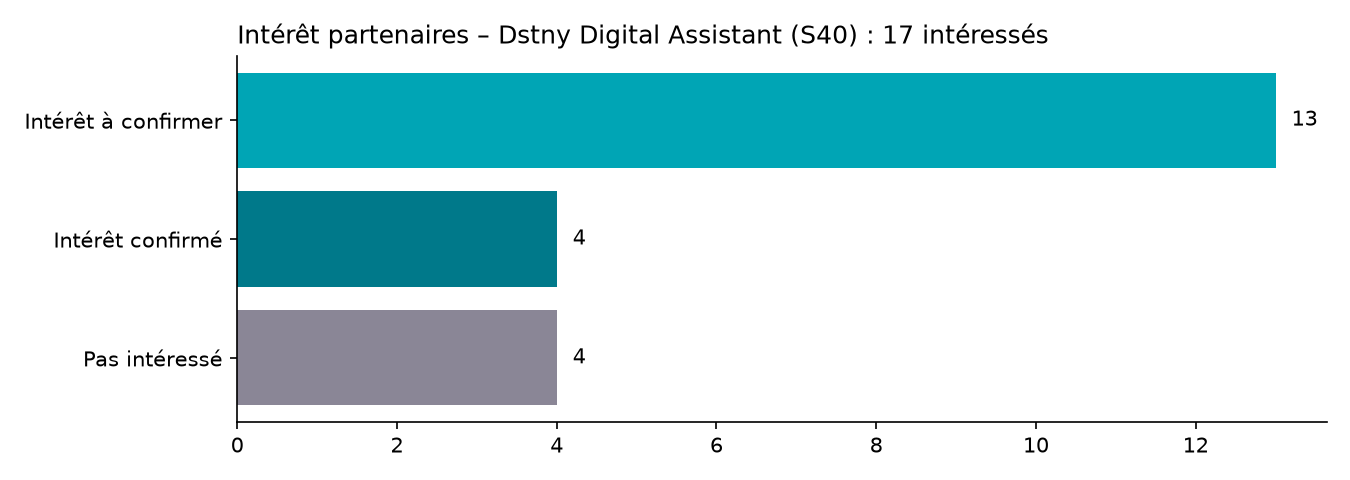
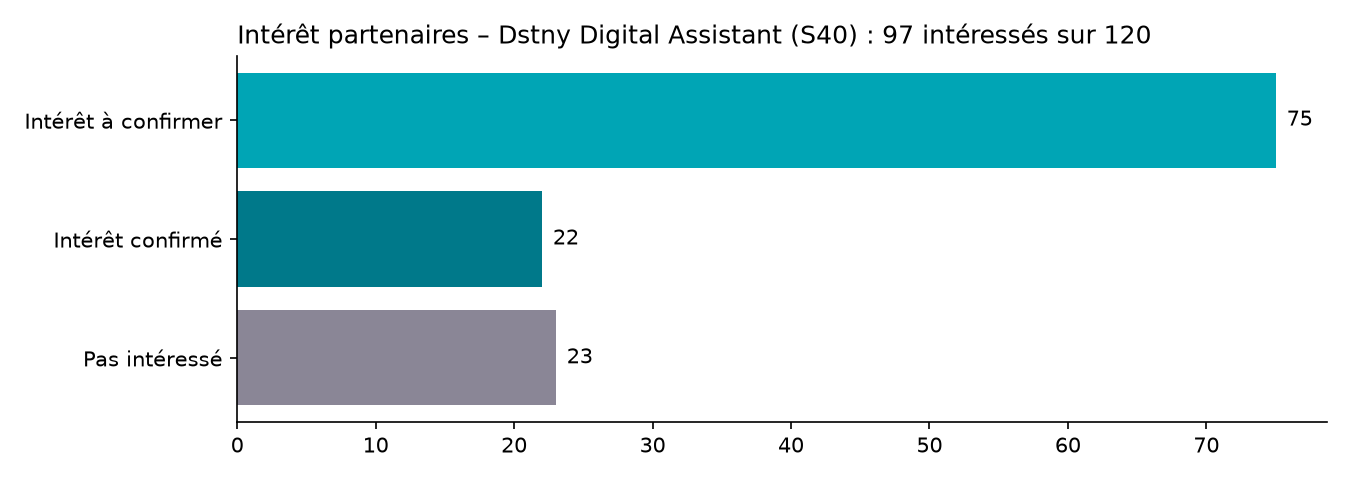
Week 40: replace interest export with corrected HubSpot data (120 partners) and update analysis, charts, slides
Claude-Session: https://claude.ai/code/session_01LkDZ43fAxsiGHwtPuUQvfi

diff --git a/challenge-ia/semaines/2026-S40/slides/slides/interet.html b/challenge-ia/semaines/2026-S40/slides/slides/interet.html
@@ -1,17 +1,17 @@
 <section id="interet" data-section="Intérêt partenaires et classement" style="background:#f4f7f8;color:#2a2536;font-family:Inter, Arial, sans-serif;padding:128px 128px 160px;display:flex;flex-direction:column;gap:48px">
-<div style="display:flex;flex-direction:column;gap:16px;align-items:start"><p style="font-size:24px;font-weight:700;letter-spacing:2px;text-transform:uppercase;background:#d6f1f3;color:#00596a;padding:6px 20px;border-radius:999px">Intérêt partenaires</p><h2 style="font-size:60px;font-weight:800;line-height:1.1;color:#2a2536">17 partenaires intéressés, mais seulement 4 confirmés</h2></div>
+<div style="display:flex;flex-direction:column;gap:16px;align-items:start"><p style="font-size:24px;font-weight:700;letter-spacing:2px;text-transform:uppercase;background:#d6f1f3;color:#00596a;padding:6px 20px;border-radius:999px">Intérêt partenaires</p><h2 style="font-size:60px;font-weight:800;line-height:1.1;color:#2a2536">97 partenaires intéressés, dont 22 confirmés</h2></div>
 <div style="display:flex;gap:48px;align-items:center">
 <div style="flex:1;display:flex;flex-direction:column;gap:28px">
-<div style="display:flex;align-items:center;gap:20px"><p style="width:300px;font-size:26px;font-weight:600">Intérêt à confirmer</p><div style="width:520px;height:56px;background:#00a5b5;border-radius:6px"></div><p style="font-size:30px;font-weight:800">13</p></div>
-<div style="display:flex;align-items:center;gap:20px"><p style="width:300px;font-size:26px;font-weight:600">Intérêt confirmé</p><div style="width:160px;height:56px;background:#00798a;border-radius:6px"></div><p style="font-size:30px;font-weight:800">4</p></div>
-<div style="display:flex;align-items:center;gap:20px"><p style="width:300px;font-size:26px;font-weight:600">Pas intéressé</p><div style="width:160px;height:56px;background:#8a8696;border-radius:6px"></div><p style="font-size:30px;font-weight:800">4</p></div>
+<div style="display:flex;align-items:center;gap:20px"><p style="width:300px;font-size:26px;font-weight:600">Intérêt à confirmer</p><div style="width:600px;height:56px;background:#00a5b5;border-radius:6px"></div><p style="font-size:30px;font-weight:800">75</p></div>
+<div style="display:flex;align-items:center;gap:20px"><p style="width:300px;font-size:26px;font-weight:600">Intérêt confirmé</p><div style="width:176px;height:56px;background:#00798a;border-radius:6px"></div><p style="font-size:30px;font-weight:800">22</p></div>
+<div style="display:flex;align-items:center;gap:20px"><p style="width:300px;font-size:26px;font-weight:600">Pas intéressé</p><div style="width:184px;height:56px;background:#8a8696;border-radius:6px"></div><p style="font-size:30px;font-weight:800">23</p></div>
 <p style="font-size:24px;color:#6b6678">Nombre de partenaires par statut de la propriété « Intérêt Dstny Digital Assistant »</p>
 </div>
 <div style="width:520px;display:flex;flex-direction:column;gap:24px">
-<div style="background:#fbfcfc;border-radius:12px;padding:36px;box-shadow:0 1px 2px rgba(42,37,54,.06), 0 6px 20px rgba(42,37,54,.06)"><p style="font-size:64px;font-weight:800;line-height:1.1;color:#00798a">13</p><p style="font-size:26px;line-height:1.4">intérêts encore à confirmer avec le partenaire</p></div>
-<div style="background:#fbfcfc;border-radius:12px;padding:36px;box-shadow:0 1px 2px rgba(42,37,54,.06), 0 6px 20px rgba(42,37,54,.06)"><p style="font-size:64px;font-weight:800;line-height:1.1;color:#00798a">2 sur 17</p><p style="font-size:26px;line-height:1.4">partenaires intéressés ont déjà un projet client final, 2 des 4 confirmés</p></div>
+<div style="background:#fbfcfc;border-radius:12px;padding:36px;box-shadow:0 1px 2px rgba(42,37,54,.06), 0 6px 20px rgba(42,37,54,.06)"><p style="font-size:64px;font-weight:800;line-height:1.1;color:#00798a">3 sur 97</p><p style="font-size:26px;line-height:1.4">partenaires intéressés ont déjà un projet client final, tous au statut confirmé</p></div>
+<div style="background:#fbfcfc;border-radius:12px;padding:36px;box-shadow:0 1px 2px rgba(42,37,54,.06), 0 6px 20px rgba(42,37,54,.06)"><p style="font-size:64px;font-weight:800;line-height:1.1;color:#00798a">19 sur 22</p><p style="font-size:26px;line-height:1.4">partenaires confirmés n'ont pas encore de projet client final</p></div>
 </div>
 </div>
 <p style="position:absolute;left:128px;bottom:64px;width:1664px;font-size:24px;color:#6b6678">Dstny · Réunion commerciale S40 · Source : HubSpot, exports du 01/10/2026 · 4/9</p>
-<aside>Les 13 partenaires au statut « Intérêt » n'ont aucun projet client final ouvert : c'est le principal réservoir de projets pour 2027. 2 partenaires confirmés n'ont pas encore de projet non plus.</aside>
+<aside>120 partenaires ont un statut d'intérêt renseigné. Les 75 partenaires au statut « Intérêt » n'ont aucun projet client final ouvert. Les 19 confirmés sans projet sont la priorité : l'intérêt est acquis, il reste à identifier le client final.</aside>
 </section>

diff --git a/challenge-ia/semaines/2026-S40/slides/slides/synthese.html b/challenge-ia/semaines/2026-S40/slides/slides/synthese.html
@@ -3,8 +3,8 @@
 <div style="display:grid;grid-template-columns:1fr 1fr;gap:32px">
 <div style="background:#fbfcfc;border-radius:12px;padding:36px;box-shadow:0 1px 2px rgba(42,37,54,.06), 0 6px 20px rgba(42,37,54,.06);border-top:10px solid #00798a;display:flex;flex-direction:column;gap:28px">
 <p style="font-size:24px;font-weight:700;letter-spacing:2px;text-transform:uppercase;padding:6px 20px;border-radius:999px;align-self:start;background:#d6f1f3;color:#00596a">Intérêt partenaires</p>
-<div style="display:flex;gap:24px"><div style="display:flex;flex-direction:column;gap:4px;flex:1"><p style="font-size:96px;font-weight:800;line-height:1;color:#00798a">17</p><p style="font-size:26px;line-height:1.35">partenaires intéressés</p></div><div style="display:flex;flex-direction:column;gap:4px;flex:1"><p style="font-size:96px;font-weight:800;line-height:1;color:#00798a">4</p><p style="font-size:26px;line-height:1.35">dont intérêt confirmé</p></div><div style="display:flex;flex-direction:column;gap:4px;flex:1"><p style="font-size:96px;font-weight:800;line-height:1;color:#6b6678">4</p><p style="font-size:26px;line-height:1.35">pas intéressés</p></div></div>
-<p style="font-size:26px;line-height:1.4;color:#4f4a5c">13 intérêts restent à confirmer. Seuls 2 partenaires intéressés ont déjà un projet client final.</p>
+<div style="display:flex;gap:24px"><div style="display:flex;flex-direction:column;gap:4px;flex:1"><p style="font-size:96px;font-weight:800;line-height:1;color:#00798a">97</p><p style="font-size:26px;line-height:1.35">partenaires intéressés</p></div><div style="display:flex;flex-direction:column;gap:4px;flex:1"><p style="font-size:96px;font-weight:800;line-height:1;color:#00798a">22</p><p style="font-size:26px;line-height:1.35">dont intérêt confirmé</p></div><div style="display:flex;flex-direction:column;gap:4px;flex:1"><p style="font-size:96px;font-weight:800;line-height:1;color:#6b6678">23</p><p style="font-size:26px;line-height:1.35">pas intéressés</p></div></div>
+<p style="font-size:26px;line-height:1.4;color:#4f4a5c">75 intérêts restent à confirmer. Seuls 3 partenaires intéressés ont déjà un projet client final.</p>
 </div>
 <div style="background:#fbfcfc;border-radius:12px;padding:36px;box-shadow:0 1px 2px rgba(42,37,54,.06), 0 6px 20px rgba(42,37,54,.06);border-top:10px solid #7e0a5c;display:flex;flex-direction:column;gap:28px">
 <p style="font-size:24px;font-weight:700;letter-spacing:2px;text-transform:uppercase;padding:6px 20px;border-radius:999px;align-self:start;background:#f6e3ef;color:#7e0a5c">Projets clients finaux</p>
@@ -13,5 +13,5 @@
 </div>
 </div>
 <p style="position:absolute;left:128px;bottom:64px;width:1664px;font-size:24px;color:#6b6678">Dstny · Réunion commerciale S40 · Source : HubSpot, exports du 01/10/2026 · 2/9</p>
-<aside>Deux indicateurs distincts. Intérêt partenaires : la propriété « Intérêt Dstny Digital Assistant » sur la fiche entreprise du partenaire. Projets clients finaux : les transactions IA ouvertes dans le Pipeline VI pour un client final. 8 partenaires ont un projet sans que leur intérêt soit renseigné.</aside>
+<aside>Deux indicateurs distincts. Intérêt partenaires : la propriété « Intérêt Dstny Digital Assistant » sur la fiche entreprise du partenaire. Projets clients finaux : les transactions IA ouvertes dans le Pipeline VI pour un client final. 7 partenaires ont un projet sans que leur intérêt soit renseigné.</aside>
 </section>

diff --git a/challenge-ia/semaines/2026-S40/slides/slides/vigilance.html b/challenge-ia/semaines/2026-S40/slides/slides/vigilance.html
@@ -2,10 +2,10 @@
 <div style="display:flex;flex-direction:column;gap:12px"><p style="font-size:24px;font-weight:700;letter-spacing:2px;text-transform:uppercase;color:#00798a">Qualité du pipeline</p><h2 style="font-size:60px;font-weight:800;line-height:1.1;color:#2a2536">Quatre points de vigilance dans HubSpot</h2></div>
 <div style="display:grid;grid-template-columns:1fr 1fr;gap:28px">
 <div style="background:#fbfcfc;border-radius:12px;padding:36px;box-shadow:0 1px 2px rgba(42,37,54,.06), 0 6px 20px rgba(42,37,54,.06);border-left:8px solid #ff9015;display:flex;flex-direction:column;gap:12px"><h3 style="font-size:32px;font-weight:700;line-height:1.2">4 closings d'octobre encore en « Projet détecté »</h3><p style="font-size:26px;line-height:1.4;color:#4f4a5c">Dont un au 16/10 chez Corinne. À faire avancer en « Deal en cours » ou à re-dater.</p></div>
-<div style="background:#fbfcfc;border-radius:12px;padding:36px;box-shadow:0 1px 2px rgba(42,37,54,.06), 0 6px 20px rgba(42,37,54,.06);border-left:8px solid #ff9015;display:flex;flex-direction:column;gap:12px"><h3 style="font-size:32px;font-weight:700;line-height:1.2">8 partenaires avec projet, sans intérêt renseigné</h3><p style="font-size:26px;line-height:1.4;color:#4f4a5c">La propriété Intérêt n'est pas à jour : on compterait plutôt 25 partenaires intéressés, et non 17.</p></div>
+<div style="background:#fbfcfc;border-radius:12px;padding:36px;box-shadow:0 1px 2px rgba(42,37,54,.06), 0 6px 20px rgba(42,37,54,.06);border-left:8px solid #ff9015;display:flex;flex-direction:column;gap:12px"><h3 style="font-size:32px;font-weight:700;line-height:1.2">7 partenaires avec projet, sans intérêt renseigné</h3><p style="font-size:26px;line-height:1.4;color:#4f4a5c">La propriété Intérêt n'est pas à jour : on compterait plutôt 104 partenaires intéressés, et non 97.</p></div>
 <div style="background:#fbfcfc;border-radius:12px;padding:36px;box-shadow:0 1px 2px rgba(42,37,54,.06), 0 6px 20px rgba(42,37,54,.06);border-left:8px solid #7e0a5c;display:flex;flex-direction:column;gap:12px"><h3 style="font-size:32px;font-weight:700;line-height:1.2">Doublon probable chez Alain Babaci</h3><p style="font-size:26px;line-height:1.4;color:#4f4a5c">2 deals sur le même partenaire, créés à la suite, même closing au 30/10. À fusionner ou à justifier.</p></div>
 <div style="background:#fbfcfc;border-radius:12px;padding:36px;box-shadow:0 1px 2px rgba(42,37,54,.06), 0 6px 20px rgba(42,37,54,.06);border-left:8px solid #7e0a5c;display:flex;flex-direction:column;gap:12px"><h3 style="font-size:32px;font-weight:700;line-height:1.2">Aucun montant dans l'export</h3><p style="font-size:26px;line-height:1.4;color:#4f4a5c">Le pipeline se mesure en nombre de projets uniquement. Ajouter le montant au rapport pour la S41.</p></div>
 </div>
 <p style="position:absolute;left:128px;bottom:64px;width:1664px;font-size:24px;color:#6b6678">Dstny · Réunion commerciale S40 · Source : HubSpot, exports du 01/10/2026 · 7/9</p>
-<aside>Répartition des 8 partenaires avec projet mais sans intérêt renseigné : Corinne 3, Jennifer 3, Alain 1, Vincent 1. Les deux partenaires confirmés qui ont un projet sont chez Corinne.</aside>
+<aside>Répartition des 7 partenaires avec projet mais sans intérêt renseigné : Corinne 3, Jennifer 3, Vincent 1. Les 3 partenaires confirmés qui ont un projet sont chez Corinne (2) et Alain (1).</aside>
 </section>

diff --git a/challenge-ia/semaines/2026-S40/slides/slides/vue.html b/challenge-ia/semaines/2026-S40/slides/slides/vue.html
@@ -2,11 +2,11 @@
 <div style="display:flex;flex-direction:column;gap:12px"><p style="font-size:24px;font-weight:700;letter-spacing:2px;text-transform:uppercase;color:#6b6678">Vue d'ensemble du challenge</p><h2 style="font-size:60px;font-weight:800;line-height:1.1">Le challenge en un coup d'œil</h2></div>
 <div style="display:grid;grid-template-columns:1fr 1fr;gap:32px">
 <div style="background:#fbfcfc;border-radius:12px;padding:36px;box-shadow:0 1px 2px rgba(42,37,54,.06), 0 6px 20px rgba(42,37,54,.06);border-top:10px solid #00798a;display:flex;flex-direction:column;gap:28px">
-<p style="font-size:24px;font-weight:700;letter-spacing:2px;text-transform:uppercase;padding:6px 20px;border-radius:999px;align-self:start;background:#d6f1f3;color:#00596a">Intérêt partenaires · 21 partenaires</p>
+<p style="font-size:24px;font-weight:700;letter-spacing:2px;text-transform:uppercase;padding:6px 20px;border-radius:999px;align-self:start;background:#d6f1f3;color:#00596a">Intérêt partenaires · 120 partenaires</p>
 <div style="display:flex;flex-direction:column;gap:24px">
-<div style="display:flex;align-items:center;gap:20px"><p style="width:300px;font-size:26px;font-weight:600">Intérêt à confirmer</p><div style="width:351px;height:56px;background:#00a5b5;border-radius:6px"></div><p style="font-size:30px;font-weight:800">13</p></div>
-<div style="display:flex;align-items:center;gap:20px"><p style="width:300px;font-size:26px;font-weight:600">Intérêt confirmé</p><div style="width:108px;height:56px;background:#00798a;border-radius:6px"></div><p style="font-size:30px;font-weight:800">4</p></div>
-<div style="display:flex;align-items:center;gap:20px"><p style="width:300px;font-size:26px;font-weight:600">Pas intéressé</p><div style="width:108px;height:56px;background:#8a8696;border-radius:6px"></div><p style="font-size:30px;font-weight:800">4</p></div>
+<div style="display:flex;align-items:center;gap:20px"><p style="width:300px;font-size:26px;font-weight:600">Intérêt à confirmer</p><div style="width:360px;height:56px;background:#00a5b5;border-radius:6px"></div><p style="font-size:30px;font-weight:800">75</p></div>
+<div style="display:flex;align-items:center;gap:20px"><p style="width:300px;font-size:26px;font-weight:600">Intérêt confirmé</p><div style="width:106px;height:56px;background:#00798a;border-radius:6px"></div><p style="font-size:30px;font-weight:800">22</p></div>
+<div style="display:flex;align-items:center;gap:20px"><p style="width:300px;font-size:26px;font-weight:600">Pas intéressé</p><div style="width:110px;height:56px;background:#8a8696;border-radius:6px"></div><p style="font-size:30px;font-weight:800">23</p></div>
 </div>
 <p style="font-size:24px;color:#6b6678">Nombre de partenaires par statut d'intérêt</p>
 </div>

diff --git a/challenge-ia/semaines/2026-S40/slides/slides/actions.html b/challenge-ia/semaines/2026-S40/slides/slides/actions.html
@@ -4,9 +4,9 @@
 <tr style="background:#39334a"><th style="width:24%;color:#fbfcfc">Commercial</th><th style="width:24%;color:#fbfcfc">Pipeline IA</th><th style="width:52%;color:#fbfcfc">Action cette semaine</th></tr>
 <tr style="background:#fbfcfc"><td>Corinne Baroukh</td><td>5 projets, 1 en cours</td><td>Confirmer les 3 closings d'octobre et renseigner l'intérêt de 3 partenaires</td></tr>
 <tr style="background:#eef3f4"><td>Jennifer Pereira</td><td>3 projets détectés</td><td>Avancer ou re-dater le projet du 31/10 et renseigner l'intérêt de 3 partenaires</td></tr>
-<tr style="background:#fbfcfc"><td>Alain Babaci</td><td>2 deals, 1 partenaire</td><td>Traiter le doublon et renseigner l'intérêt du partenaire</td></tr>
+<tr style="background:#fbfcfc"><td>Alain Babaci</td><td>2 deals, 1 partenaire</td><td>Traiter le doublon sur son partenaire confirmé</td></tr>
 <tr style="background:#eef3f4"><td>Vincent Del Campo</td><td>1 projet détecté</td><td>Renseigner l'intérêt du partenaire et ouvrir de nouveaux projets</td></tr>
-<tr style="background:#fbfcfc"><td>Toute l'équipe</td><td>13 intérêts sans projet</td><td>Transformer l'intérêt en projet client final, daté 2027 si besoin</td></tr>
+<tr style="background:#fbfcfc"><td>Toute l'équipe</td><td>94 intéressés sans projet, dont 19 confirmés</td><td>Commencer par les 19 confirmés : identifier un projet client final, daté 2027 si besoin</td></tr>
 </table>
 <p style="position:absolute;left:128px;bottom:64px;width:1664px;font-size:24px;color:#6b6678">Dstny · Réunion commerciale S40 · Source : HubSpot, exports du 01/10/2026 · 8/9</p>
 <aside>Objectif de la S41 : une base HubSpot propre (intérêts renseignés, dates réalistes, pas de doublon) et les premiers projets datés 2027.</aside>

diff --git a/challenge-ia/semaines/2026-S40/slides/slides/pipeline.html b/challenge-ia/semaines/2026-S40/slides/slides/pipeline.html
@@ -10,7 +10,7 @@
 <div style="flex:1;display:flex;flex-direction:column;gap:24px">
 <div style="display:flex;gap:32px"><div style="display:flex;align-items:center;gap:12px"><div style="width:28px;height:24px;background:#c76aa8;border-radius:4px"></div><p style="font-size:24px">Projet détecté</p></div><div style="display:flex;align-items:center;gap:12px"><div style="width:28px;height:24px;background:#7e0a5c;border-radius:4px"></div><p style="font-size:24px">Deal en cours</p></div></div>
 <div style="background:#fbfcfc;border-radius:12px;padding:36px;box-shadow:0 1px 2px rgba(42,37,54,.06), 0 6px 20px rgba(42,37,54,.06)"><h3 style="font-size:30px;font-weight:700">Octobre surchargé</h3><p style="font-size:26px;line-height:1.4;color:#4f4a5c">6 closings prévus ce mois-ci, dont 4 encore au stade « Projet détecté ».</p></div>
-<div style="background:#fbfcfc;border-radius:12px;padding:36px;box-shadow:0 1px 2px rgba(42,37,54,.06), 0 6px 20px rgba(42,37,54,.06)"><h3 style="font-size:30px;font-weight:700">2027 à construire</h3><p style="font-size:26px;line-height:1.4;color:#4f4a5c">Aucun projet daté 2027. Les 13 intérêts à confirmer sont le vivier.</p></div>
+<div style="background:#fbfcfc;border-radius:12px;padding:36px;box-shadow:0 1px 2px rgba(42,37,54,.06), 0 6px 20px rgba(42,37,54,.06)"><h3 style="font-size:30px;font-weight:700">2027 à construire</h3><p style="font-size:26px;line-height:1.4;color:#4f4a5c">Aucun projet daté 2027. Les 94 partenaires intéressés sans projet sont le vivier.</p></div>
 </div>
 </div>
 <p style="position:absolute;left:128px;bottom:64px;width:1664px;font-size:24px;color:#6b6678">Dstny · Réunion commerciale S40 · Source : HubSpot, exports du 01/10/2026 · 6/9</p>

diff --git a/challenge-ia/semaines/2026-S40/slides/slides/cover.html b/challenge-ia/semaines/2026-S40/slides/slides/cover.html
@@ -3,5 +3,5 @@
 <p style="font-size:28px;font-weight:700;letter-spacing:3px;text-transform:uppercase;color:#ffb466">Réunion commerciale hebdomadaire · Semaine 40 · 1er octobre 2026</p>
 <h1 style="font-size:112px;font-weight:800;line-height:1.05;color:#fbfcfc">Challenge Dstny Digital Assistant (IA)</h1>
 <p style="font-size:36px;color:#d9d5e2;line-height:1.4">Intérêt des partenaires et pipeline de projets clients finaux, fin 2026 et 2027</p>
-<aside>Point hebdomadaire du challenge IA. Deux sources cette semaine : le rapport HubSpot « Partenaires - Intérêt IA » (statut d'intérêt de 21 partenaires) et le rapport « Partenaires - Opportunités IA » (11 projets clients finaux).</aside>
+<aside>Point hebdomadaire du challenge IA. Deux sources cette semaine : le rapport HubSpot « Partenaires - Intérêt IA » (statut d'intérêt de 120 partenaires) et le rapport « Partenaires - Opportunités IA » (11 projets clients finaux).</aside>
 </section>

diff --git a/challenge-ia/semaines/2026-S40/analyse.md b/challenge-ia/semaines/2026-S40/analyse.md
@@ -1,34 +1,35 @@
-# Challenge IA — Semaine 40 (export du 01/10/2026)
+# Challenge IA — Semaine 40 (exports du 01/10/2026, version corrigée)
 
 Deck de la réunion : https://claude.ai/artifact/1F7i7xrzY2e1eJvb45tgaL (copie des slides dans `slides/`).
 
 ## Sources
-- `export-hubspot-interet-ia-2026-10-01.xlsx` : rapport « Partenaires - Intérêt IA », 21 partenaires avec un statut d'intérêt renseigné (statut + ID entreprise). Il n'existe pas de champ « partenaire qualifié ».
-- `export-hubspot-opportunites-ia-2026-10-01.xlsx` : rapport « Partenaires - Opportunités IA », 11 transactions (phase, propriétaire, produit, date de fermeture, ID entreprise).
-
-## Chiffres clés
+- `export-hubspot-interet-ia-2026-10-01.csv` (+ `-synthese.csv`) : rapport « Partenaires - Intérêt IA », 120 partenaires avec un statut d'intérêt renseigné (statut + ID entreprise). Remplace un premier export erroné (21 partenaires).
+- `export-hubspot-opportunites-ia-2026-10-01.xlsx` : rapport « Partenaires - Opportunités IA », 11 transactions (inchangé par rapport au premier export).
 
 Deux indicateurs distincts : l'**intérêt partenaires** (propriété « Intérêt Dstny Digital Assistant » sur la fiche du partenaire) et les **projets clients finaux** (transactions IA du Pipeline VI).
+
+## Chiffres clés
 | Indicateur | S40 |
 |---|---|
 | **Intérêt partenaires** | |
-| Partenaires intéressés | 17 |
-| Intérêt (à confirmer) | 13 |
-| Intérêt confirmé | 4 |
-| Pas intéressé | 4 |
+| Partenaires avec un statut renseigné | 120 |
+| Intérêt (à confirmer) | 75 |
+| Intérêt confirmé | 22 |
+| Pas intéressé | 23 |
+| Partenaires intéressés (intérêt + confirmé) | 97 |
 | **Projets clients finaux** | |
-| Opportunités IA (projets clients finaux) | 11, chez 10 partenaires |
+| Opportunités IA | 11, chez 10 partenaires |
 | dont Projet détecté / Deal en cours | 9 / 2 |
 | Closing oct. / nov. / déc. 2026 / 2027 | 6 / 3 / 2 / 0 |
 
 Opportunités par commercial : Corinne Baroukh 5 (1 en cours), Jennifer Pereira 3, Alain Babaci 2 (1 en cours), Vincent Del Campo 1.
 
 ## Analyse
-1. **Fort intérêt, faible confirmation** : 17 partenaires intéressés contre 4 pas intéressés, mais seulement 4 intérêts confirmés.
-2. **Peu de conversion en projets** : seuls 2 des 17 partenaires intéressés ont une opportunité IA. Les 13 au statut « Intérêt » n'en ont aucune : c'est le vivier pour 2027.
-3. **Propriété Intérêt pas à jour** : 8 partenaires ont une opportunité IA sans intérêt renseigné (Corinne 3, Jennifer 3, Alain 1, Vincent 1). Le nombre réel de partenaires intéressés est plutôt de 25.
+1. **Fort intérêt, confirmation à travailler** : 97 partenaires intéressés contre 23 pas intéressés ; 22 intérêts confirmés, 75 restent à confirmer.
+2. **Peu de conversion en projets** : seuls 3 des 97 partenaires intéressés ont un projet client final, tous au statut confirmé (Corinne 2, Alain 1). 19 confirmés n'ont pas encore de projet : priorité pour alimenter le pipeline 2027.
+3. **Propriété Intérêt pas à jour** : 7 partenaires ont un projet sans intérêt renseigné (Corinne 3, Jennifer 3, Vincent 1). On compterait plutôt 104 partenaires intéressés.
 4. **Dates de closing optimistes** : 6 closings en octobre, dont 4 encore au stade « Projet détecté » (un au 16/10).
-5. **Doublon probable** : Alain Babaci a 2 deals sur le même partenaire (ID 10061742314), créés à la suite, closing au 30/10.
+5. **Doublon probable** : Alain Babaci a 2 deals sur le même partenaire (ID 10061742314, intérêt confirmé), créés à la suite, closing au 30/10.
 6. **Pipeline 2027 vide** : aucune opportunité datée 2027.
 
 ## Limites de l'export
